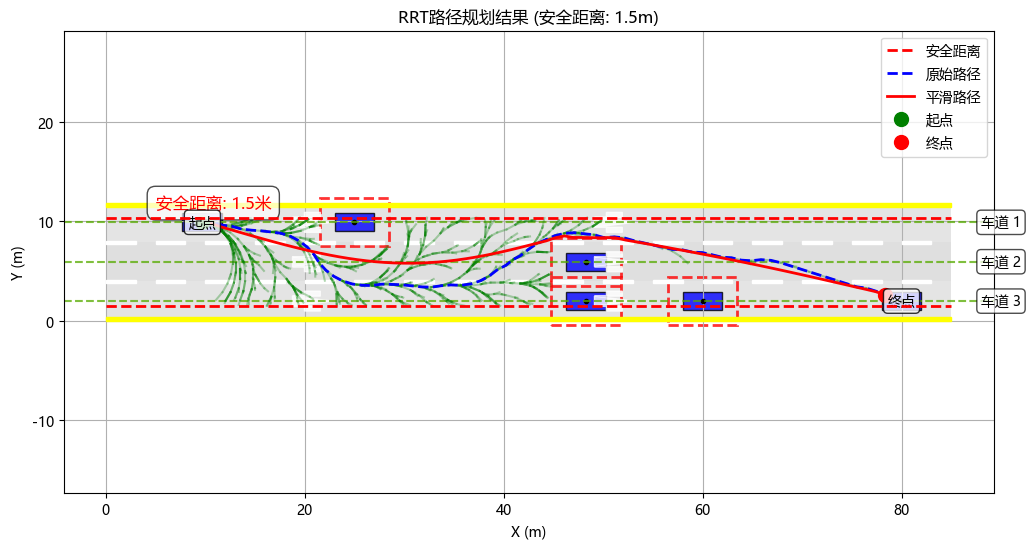
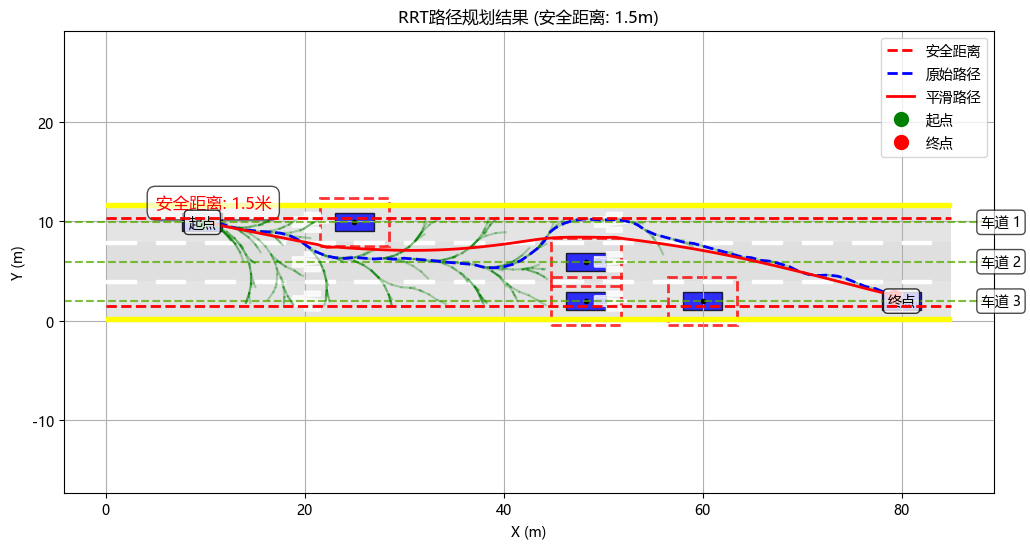
代码优化
实现了图片美化及部分代码的优化

Changed region(s): [[0.2175, 0.3709, 0.7767, 0.5564], [0.7767, 0.4945, 0.8388, 0.5255], [0.8388, 0.5255, 0.8699, 0.5564]]

diff --git a/rrt_star_path_planning.py b/rrt_star_path_planning.py
@@ -572,68 +572,119 @@ class RRTStar:
         return path
     
     def save_and_show_results(self, path, filename):
-        """保存并显示结果，显示原始路径和平滑路径"""
+        """保存并显示结果，显示原始路径和平滑路径，使用更美观的样式"""
         print("保存路径规划结果...")
         
         fig, ax = plt.subplots(1, 1, figsize=(15, 8))
         
-        # 绘制道路
+        # 1. 绘制道路背景 - 深灰色
         road_rect = Rectangle((0, 0), self.env.road_length, self.env.road_width, 
-                             linewidth=2, edgecolor='black', facecolor='lightgray', alpha=0.3)
+                             linewidth=2, edgecolor='black', facecolor='darkgray', alpha=0.5, zorder=0)
         ax.add_patch(road_rect)
         
-        # 绘制车道线
+        # 2. 绘制车道背景色（交替颜色）
+        lane_colors = ['#f0f0f0', '#e8e8e8', '#f0f0f0']  # 浅灰色交替
+        for i in range(self.env.num_lanes):
+            lane_y_start = i * self.env.lane_width
+            lane_rect = Rectangle((0, lane_y_start), self.env.road_length, self.env.lane_width,
+                                facecolor=lane_colors[i % len(lane_colors)], alpha=0.3, zorder=1)
+            ax.add_patch(lane_rect)
+        
+        # 3. 绘制车道分界线（黄色虚线）
         for i in range(1, self.env.num_lanes):
             lane_y = i * self.env.lane_width
-            ax.plot([0, self.env.road_length], [lane_y, lane_y], 'k--', alpha=0.5, linewidth=1)
+            ax.plot([0, self.env.road_length], [lane_y, lane_y], 'y--', 
+                   linewidth=2, alpha=0.8, zorder=2)
         
-        # 绘制安全距离边界
-        # 下边界安全线
+        # 4. 绘制道路边界线（黄色实线）
+        ax.plot([0, self.env.road_length], [0, 0], 'y-', linewidth=3, alpha=0.9, zorder=2)
+        ax.plot([0, self.env.road_length], [self.env.road_width, self.env.road_width], 
+               'y-', linewidth=3, alpha=0.9, zorder=2)
+        
+        # 5. 绘制安全距离边界（红色虚线）
         lower_safe_boundary = self.safety_distance
-        ax.plot([0, self.env.road_length], [lower_safe_boundary, lower_safe_boundary], 
-                'r--', linewidth=2.0, alpha=0.7, label='安全距离')
-        
-        # 上边界安全线
         upper_safe_boundary = self.env.road_width - self.safety_distance
+        ax.plot([0, self.env.road_length], [lower_safe_boundary, lower_safe_boundary], 
+                'r--', linewidth=2.5, alpha=0.8, label='安全距离', zorder=3)
         ax.plot([0, self.env.road_length], [upper_safe_boundary, upper_safe_boundary], 
-                'r--', linewidth=2.0, alpha=0.7)
+                'r--', linewidth=2.5, alpha=0.8, zorder=3)
         
-        # 绘制障碍物车辆
+        # 6. 绘制车道标签
+        for i in range(self.env.num_lanes):
+            lane_center = (i + 0.5) * self.env.lane_width
+            ax.text(self.env.road_length + 2, lane_center, f'车道 {i+1}', 
+                   ha='left', va='center', fontsize=12, fontweight='bold',
+                   bbox=dict(facecolor='white', edgecolor='black', alpha=0.8, boxstyle='round,pad=0.3'),
+                   zorder=10)
+        
+        # 7. 绘制网格（淡化）
+        ax.grid(True, alpha=0.2, linestyle='-', linewidth=0.5, zorder=1)
+        
+        # 8. 绘制障碍物车辆及其安全距离边界
         if hasattr(self.env, 'obstacle_vehicles'):
             for vehicle in self.env.obstacle_vehicles:
+                # 绘制车辆安全距离边界（红色虚线框）
+                safety_rect = Rectangle(
+                    (vehicle.x - vehicle.length/2 - self.safety_distance, 
+                     vehicle.y - vehicle.width/2 - self.safety_distance),
+                    vehicle.length + 2 * self.safety_distance,
+                    vehicle.width + 2 * self.safety_distance,
+                    fill=False, edgecolor='r', linestyle='--', 
+                    linewidth=2.0, alpha=0.6, zorder=4
+                )
+                ax.add_patch(safety_rect)
+                
+                # 绘制车辆（蓝色）
                 vehicle.draw(ax)
         
-        # 绘制RRT*树（淡化显示）
+        # 9. 绘制RRT*搜索树（绿色，非常淡化）
         for node in self.node_list:
             if node.parent is not None:
-                ax.plot([node.x, node.parent.x], [node.y, node.parent.y], 'c-', alpha=0.2, linewidth=0.3)
+                ax.plot([node.x, node.parent.x], [node.y, node.parent.y], 
+                       'g-', alpha=0.15, linewidth=0.3, zorder=5)
         
-        # 绘制原始路径和平滑路径
-        if hasattr(self, 'raw_path') and self.raw_path:
-            raw_path_array = np.array(self.raw_path)
-            ax.plot(raw_path_array[:, 0], raw_path_array[:, 1], 'b--', linewidth=2, alpha=0.6, label='原始路径')
-        
+        # 10. 绘制规划路径（平滑后的路径）
         if path:
             path_array = np.array(path)
-            ax.plot(path_array[:, 0], path_array[:, 1], 'r-', linewidth=3, label='平滑路径')
+            ax.plot(path_array[:, 0], path_array[:, 1], 'r-', 
+                   linewidth=4, label='规划路径', zorder=8)
             
-            # 标记起点和终点
-            ax.plot(path[0][0], path[0][1], 'go', markersize=10, label='起点')
-            ax.plot(path[-1][0], path[-1][1], 'ro', markersize=10, label='终点')
+            # 11. 标记起点和终点（更大更明显）
+            ax.plot(path[0][0], path[0][1], 'go', markersize=12, 
+                   markeredgecolor='black', markeredgewidth=2, label='起点', zorder=9)
+            ax.plot(path[-1][0], path[-1][1], 'ro', markersize=12, 
+                   markeredgecolor='black', markeredgewidth=2, label='终点', zorder=9)
+            
+            # 添加起点终点文字标注
+            ax.annotate('起点', (path[0][0], path[0][1]), 
+                       xytext=(0, 20), textcoords='offset points', ha='center', 
+                       fontsize=12, fontweight='bold',
+                       bbox=dict(facecolor='white', edgecolor='green', alpha=0.9, boxstyle='round,pad=0.3'),
+                       zorder=10)
+            ax.annotate('终点', (path[-1][0], path[-1][1]), 
+                       xytext=(0, 20), textcoords='offset points', ha='center', 
+                       fontsize=12, fontweight='bold',
+                       bbox=dict(facecolor='white', edgecolor='red', alpha=0.9, boxstyle='round,pad=0.3'),
+                       zorder=10)
         
-        # 设置图形属性
-        ax.set_xlim(-2, self.env.road_length + 2)
+        # 12. 设置图形属性
+        ax.set_xlim(-2, self.env.road_length + 8)  # 右侧留更多空间给车道标签
         ax.set_ylim(-2, self.env.road_width + 2)
-        ax.set_xlabel('X (m)')
-        ax.set_ylabel('Y (m)')
-        ax.set_title(f'RRT* 路径规划结果（安全距离: {self.safety_distance:.1f}m）')
-        ax.legend()
-        ax.grid(True, alpha=0.3)
+        ax.set_xlabel('X (m)', fontsize=14, fontweight='bold')
+        ax.set_ylabel('Y (m)', fontsize=14, fontweight='bold')
+        ax.set_title(f'RRT* 路径规划结果（安全距离: {self.safety_distance:.1f}m）', 
+                    fontsize=16, fontweight='bold')
+        
+        # 13. 设置图例（右上角）
+        legend = ax.legend(loc='upper right', fontsize=12, framealpha=0.9, 
+                          edgecolor='black', fancybox=True, shadow=True)
+        legend.set_zorder(11)
+        
         ax.set_aspect('equal')
         
-        # 保存图片
+        # 14. 保存图片
         plt.tight_layout()
-        plt.savefig(filename, dpi=300, bbox_inches='tight')
+        plt.savefig(filename, dpi=300, bbox_inches='tight', facecolor='white', edgecolor='none')
         plt.show()
         
         print(f"RRT*路径规划结果已保存为 {filename}") 
